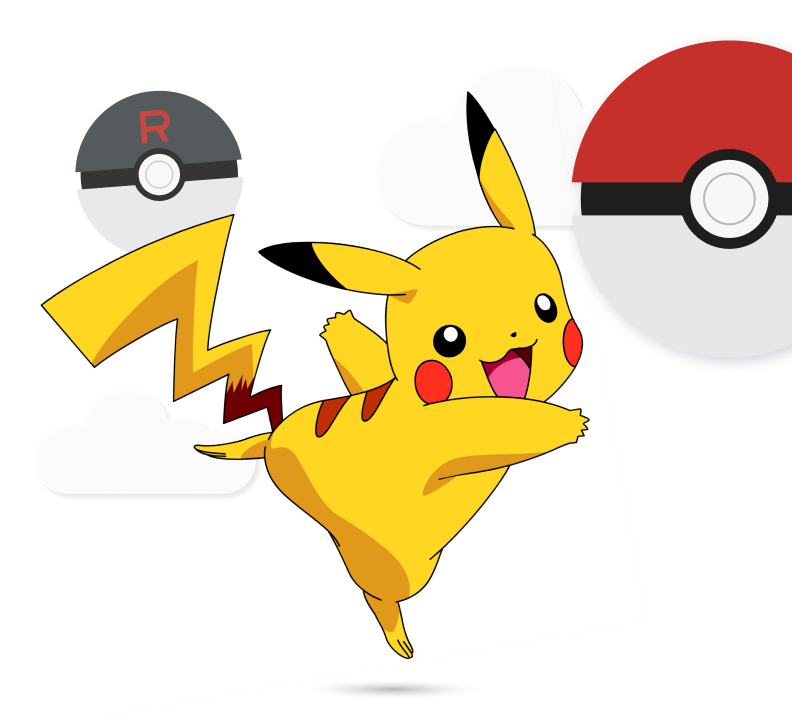
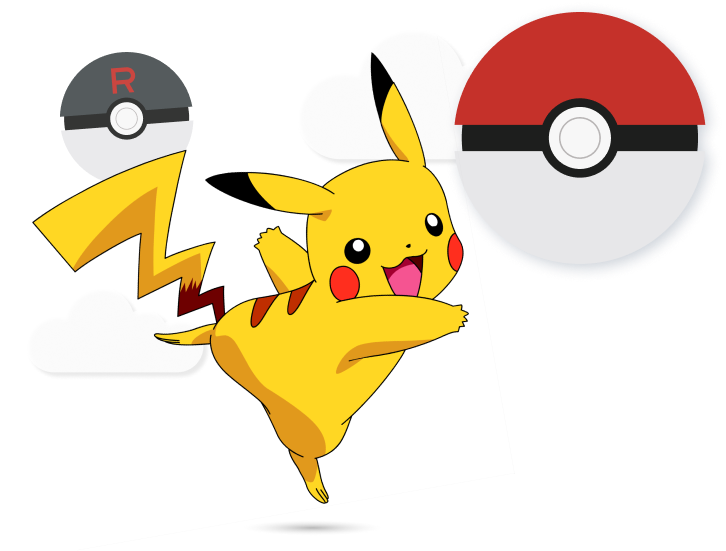
Fixed homepage

diff --git a/src/pages/home/styles.module.css b/src/pages/home/styles.module.css
@@ -7,12 +7,15 @@
     align-items: center;
 
     background: linear-gradient(180deg, #F5DB13 0%, #F2B807 100%);
+    
 }
 
 .content{
     display: flex;
+    align-items: center;
+    justify-content: center;
     width: 100%;
-    justify-content: space-between;
+    /* justify-content: space-between; */
 }
 
 .content .img{
@@ -65,4 +68,81 @@
     cursor: pointer;
 
     width: 230px;
+}
+
+@media only screen and (max-width: 860px) {
+
+    .content{
+        display: flex;
+        flex-direction: column-reverse;
+        align-items: center;
+    }
+
+    .content .msg{
+        margin-left: 0px;
+    }
+
+    .content .msg h1{
+        text-align: center;
+        line-height: 54px;
+        font-size: 66px;
+    }
+
+    .content .msg p{
+        text-align: center;
+        font-size: 22px;
+        line-height: 30px;
+        margin: 18px 0;
+    }
+
+    .content .msg a{
+        width: 230px;
+        margin: auto;
+    }
+    
+}
+
+@media only screen and (max-width: 700px) {
+
+    .content .img{
+        width: 400px;
+    }
+    
+    .content .img img{
+        width: 400px;
+    }
+
+    .content{
+        display: flex;
+        flex-direction: column-reverse;
+        align-items: center;
+    }
+
+    .content .msg{
+        margin-left: 0px;
+    }
+
+    .content .msg h1{
+        margin: auto;
+        text-align: center;
+        line-height: 64px;
+        font-size: 54px;
+        max-width: 400px;
+        margin-bottom: 14px;
+    }
+
+    .content .msg p{
+        text-align: center;
+        font-size: 26px;
+        line-height: 28px;
+        max-width: 400px;
+        margin: auto;
+
+    }
+
+    .content .msg a{
+        width: 230px;
+        margin: auto;
+    }
+    
 }

diff --git a/src/pages/home/index.tsx b/src/pages/home/index.tsx
@@ -13,9 +13,7 @@ const Home = () => {
                 <div className={styles.msg}>
                     <h1><b>Find</b> all your favorite <b>Pokemon</b></h1>
                     <p>You can know the type of Pokemon, its strengths, disadvantages and abilities</p>
-                    <Link to='/pokedex'>
-                        <button>See Pokemons</button>
-                    </Link>
+                    <Link to='/pokedex'><button>See Pokemons</button></Link>
                 </div>
                 <div className={styles.img}>
                     <img src={pikachuImg}></img>
